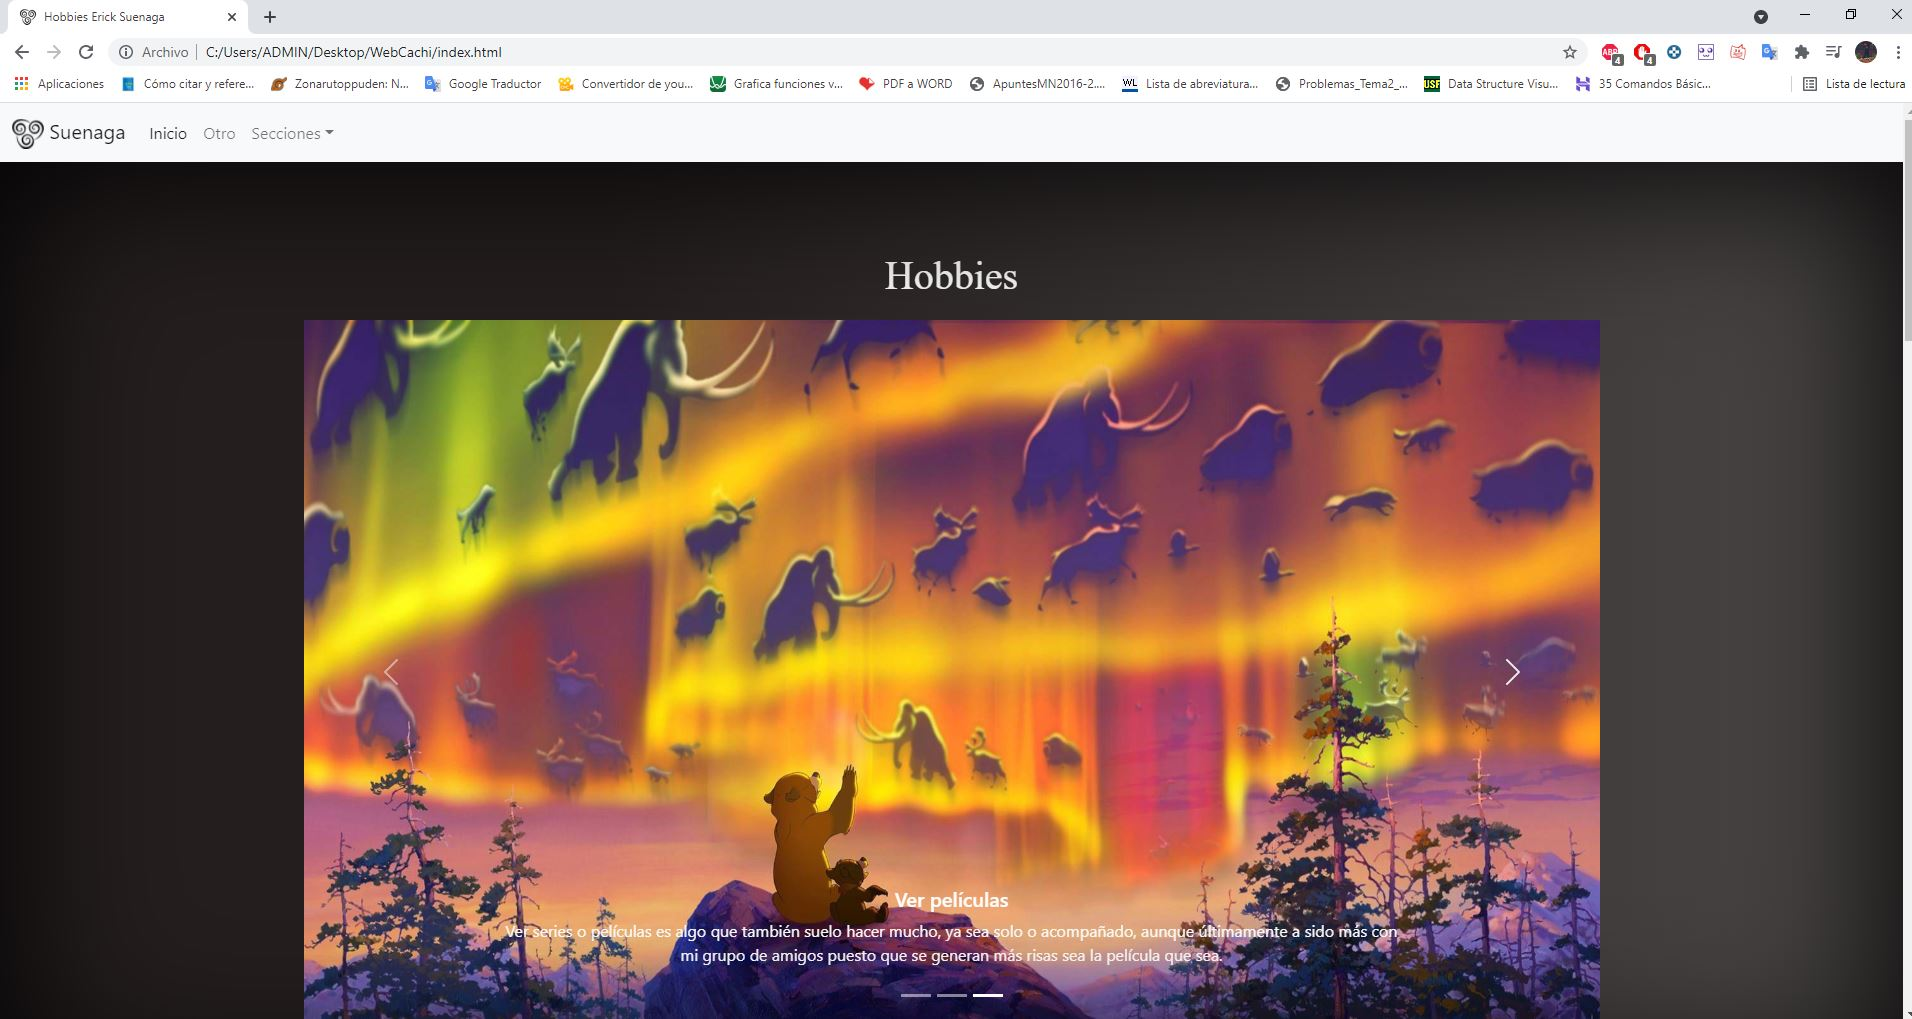
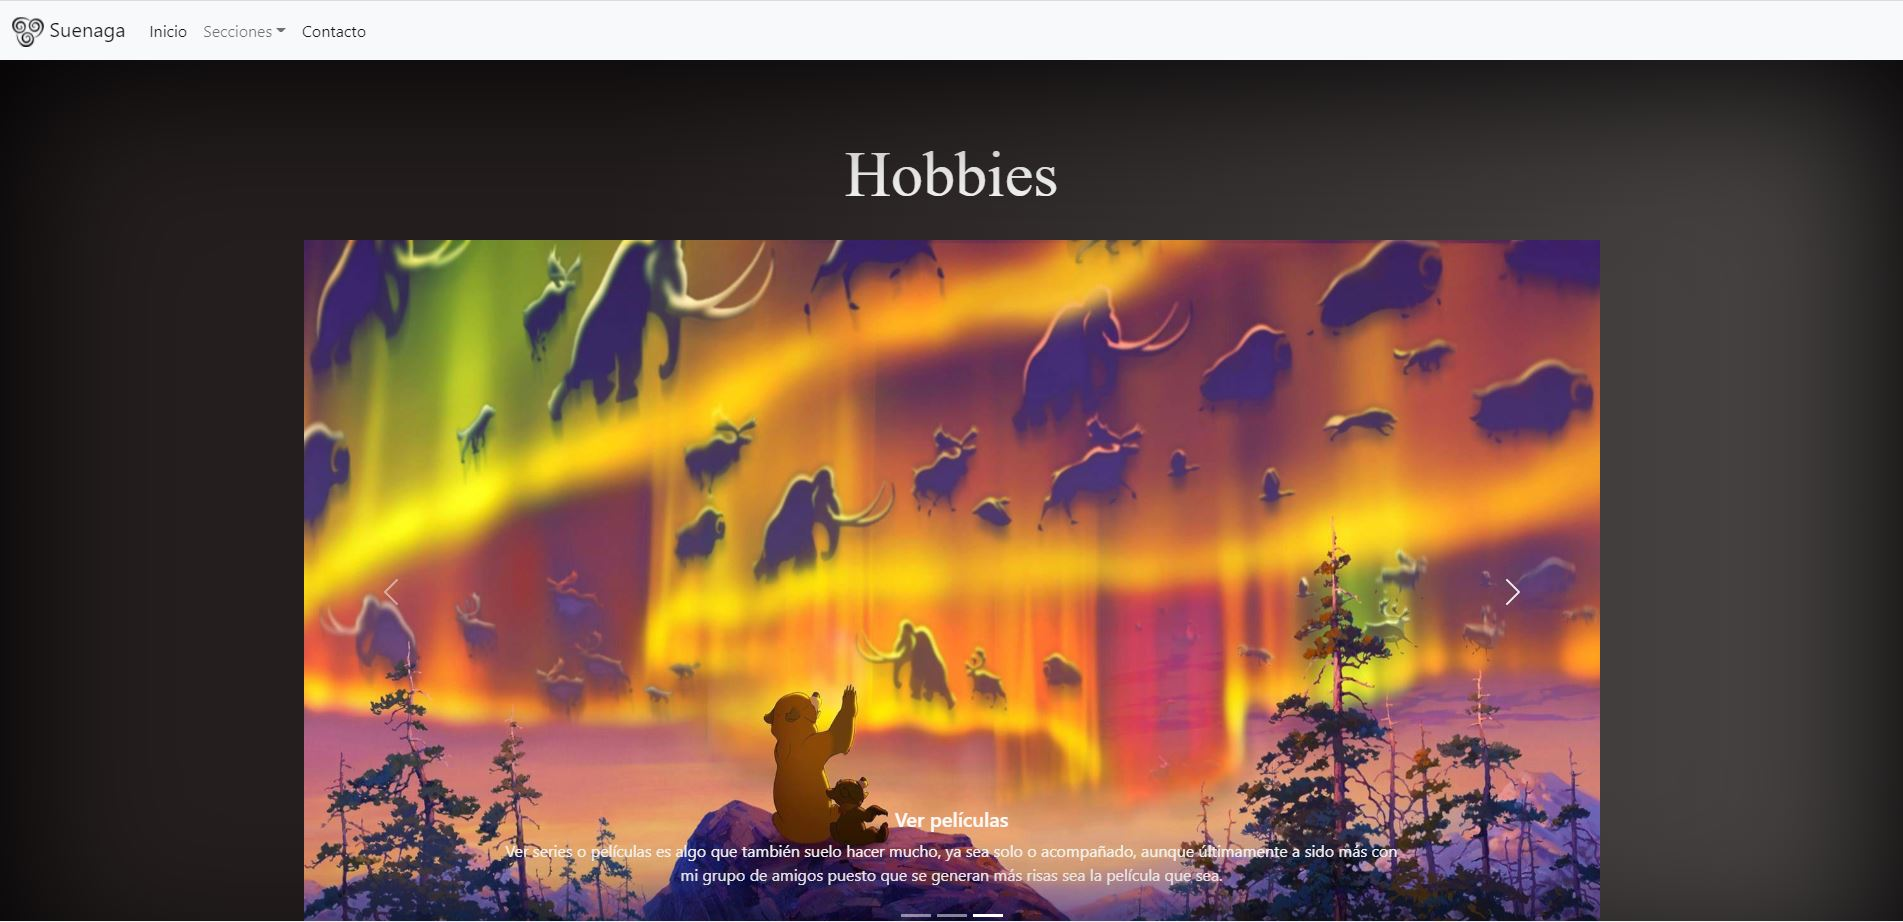
Ultimo Update Por Ahora
Se terminaron de agregar las animaciones de los botones, y terminar de darle el formato al formulario.

diff --git a/index.html b/index.html
@@ -53,7 +53,7 @@
                             </ul>
                         </li>
                         <li class="nav-item">
-                            <a class="nav-link active" aria-current="page" onclick="document.location.reload();" href="index.html#footer" >Contacto</a>
+                            <a class="nav-link active" aria-current="page" href="#footer" >Contacto</a>
                         </li>
                     </ul>
                     <form class="d-flex">
@@ -131,7 +131,7 @@
                         <img src="img/setup.jpg" class="card-img-top" width="600" height="300" alt="...">
                         <div class="card-body">
                             <h5 class="card-title">Setup</h5>
-                            <p class="card-text">Ir formando un &aacute;rea de trabajo/estudio es algo que tambi&eacute;n considero un hobbie, puesto que buscar accesarios y herramientas para mejorar la calidad del trabajo as&iacute; como la comodidad me suele entrenar, haciendo comparativas entre productos o encontrando nuevos que desconoc&iacute; que exist&iacute;an.</p>
+                            <p class="card-text">Ir formando un &aacute;rea de trabajo/estudio es algo que tambi&eacute;n considero un hobby, puesto que buscar accesarios y herramientas para mejorar la calidad del trabajo as&iacute; como la comodidad me suele entrenar, haciendo comparativas entre productos o encontrando nuevos que desconoc&iacute; que exist&iacute;an.</p>
                         </div>
                         <div class="card-footer">
                             <small class="text-muted">(No se adjunt&oacute; foto personal por privacidad xd).</small>
@@ -185,7 +185,7 @@
             <article>
                 <a name="songs"></a>
                 <br>
-                <center><h1 class="main-title" id="main-title2"><font color="#000000">Algunas de las canciones que m&aacute;s me gustan.</font></h1></center>
+                <center><h1 class="main-title" id="main-title2"><font color="#000000">Algunas de las canciones que m&aacute;s me gustan</font></h1></center>
                 <br>
                 <div class="row row-cols-1 row-cols-md-3 g-4">
                     <div class="col">
@@ -230,22 +230,28 @@
                 <!-- Section: Social media -->
                 <section class="mb-4">
                     <!-- Facebook -->
-                    <a class="btn btn-outline-light btn-floating m-1" href="https://www.facebook.com/erick.santiagosuenaga/" target="_blank" role="button"><i class="fab fa-facebook-f"></i></a>
+                    <a style="animation: fadeInLeft; animation-duration: 4s;" class="btn btn-outline-light btn-floating m-1" href="https://www.facebook.com/erick.santiagosuenaga/" target="_blank" role="button"><i class="fab fa-facebook-f"></i></a>
 
                     <!-- Twitter -->
-                    <a class="btn btn-outline-light btn-floating m-1" href="https://twitter.com/ErickSuenaga1" target="_blank" role="button"><i class="fab fa-twitter"></i></a>
+                    <a style="animation: fadeInBottomLeft; animation-duration: 4s;" class="btn btn-outline-light btn-floating m-1" href="https://twitter.com/ErickSuenaga1" target="_blank" role="button"><i class="fab fa-twitter"></i></a>
 
                     <!-- Instagram -->
-                    <a class="btn btn-outline-light btn-floating m-1" href="https://www.instagram.com/cachi_erick/" target="_blank" role="button"><i class="fab fa-instagram"></i></a>
+                    <a style="animation: fadeInTopLeft; animation-duration: 4s;" class="btn btn-outline-light btn-floating m-1" href="https://www.instagram.com/cachi_erick/" target="_blank" role="button"><i class="fab fa-instagram"></i></a>
 
                     <!-- Linkedin -->
-                    <a class="btn btn-outline-light btn-floating m-1" href="https://www.linkedin.com/in/erick-suenaga/" target="_blank" role="button"><i class="fab fa-linkedin-in"></i></a>
+                    <a style="animation: fadeInDown; animation-duration: 4s;" class="btn btn-outline-light btn-floating m-1" href="https://www.linkedin.com/in/erick-suenaga/" target="_blank" role="button"><i class="fab fa-linkedin-in"></i></a>
 
                     <!-- Github -->
-                    <a class="btn btn-outline-light btn-floating m-1" href="https://github.com/Cachigod" target="_blank" role="button"><i class="fab fa-github"></i></a>
+                    <a style="animation: fadeInTopRight; animation-duration: 4s;" class="btn btn-outline-light btn-floating m-1" href="https://github.com/Cachigod" target="_blank" role="button"><i class="fab fa-github"></i></a>
 
-                    <!-- Github -->
-                    <a class="btn btn-outline-light btn-floating m-1" href="https://www.youtube.com/channel/UCH7y-2IXY85I5gy9YI-XqIg" target="_blank" role="button"><i class="fab fa-youtube"></i></a>
+                    <!-- Youtube -->
+                    <a style="animation: fadeInBottomRight; animation-duration: 4s;" class="btn btn-outline-light btn-floating m-1" href="https://www.youtube.com/channel/UCH7y-2IXY85I5gy9YI-XqIg" target="_blank" role="button"><i class="fab fa-youtube"></i></a>
+                    
+                    <!-- Twitch -->
+                    <a style="animation: fadeInRight; animation-duration: 4s;" class="btn btn-outline-light btn-floating m-1" href="https://www.twitch.tv/cachi_erick" target="_blank" role="button"><i class="fab fa-twitch"></i></a>
+                    
+                    <br><br>
+                    <a class="btn btn-outline-light btn-floating m-1" onclick="location.reload()" role="button">Ver Animación</a>
                 </section>
                 <!-- Section: Social media -->
             </div>

diff --git a/css/styles.css b/css/styles.css
@@ -24,6 +24,7 @@
 h1{
     animation: flipInX;
     animation-duration: 2.5s;
+    animation-play-state: initial;
 }
 
 .navbar-expand-lg {
